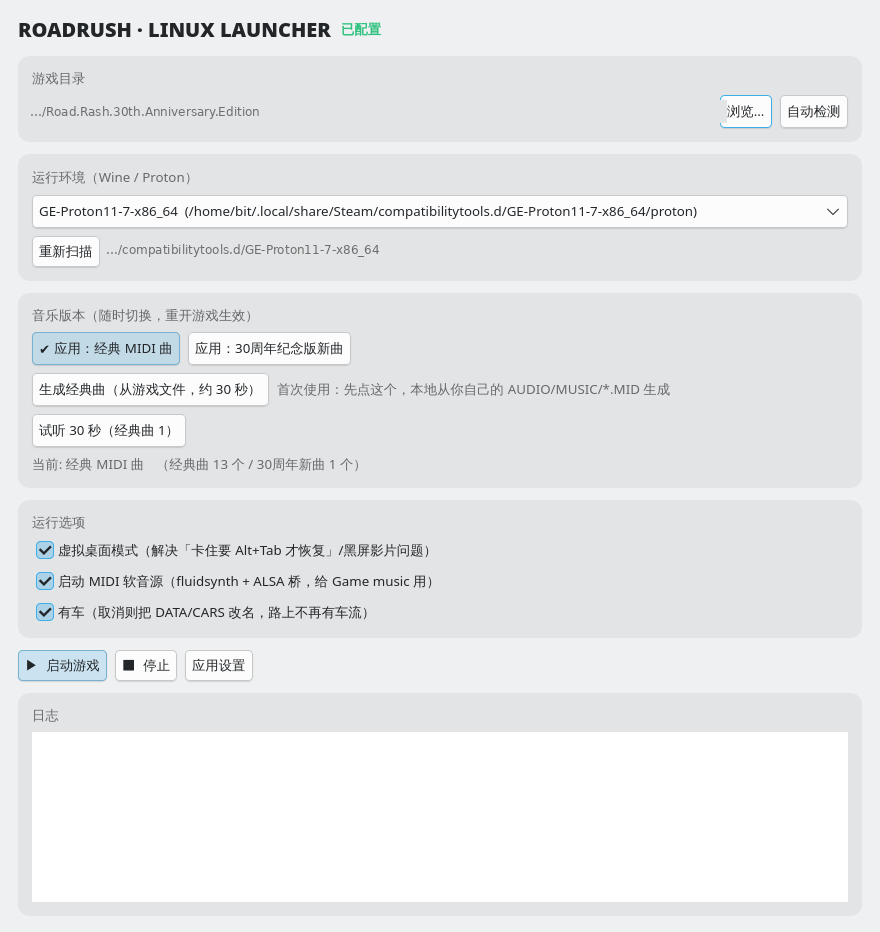
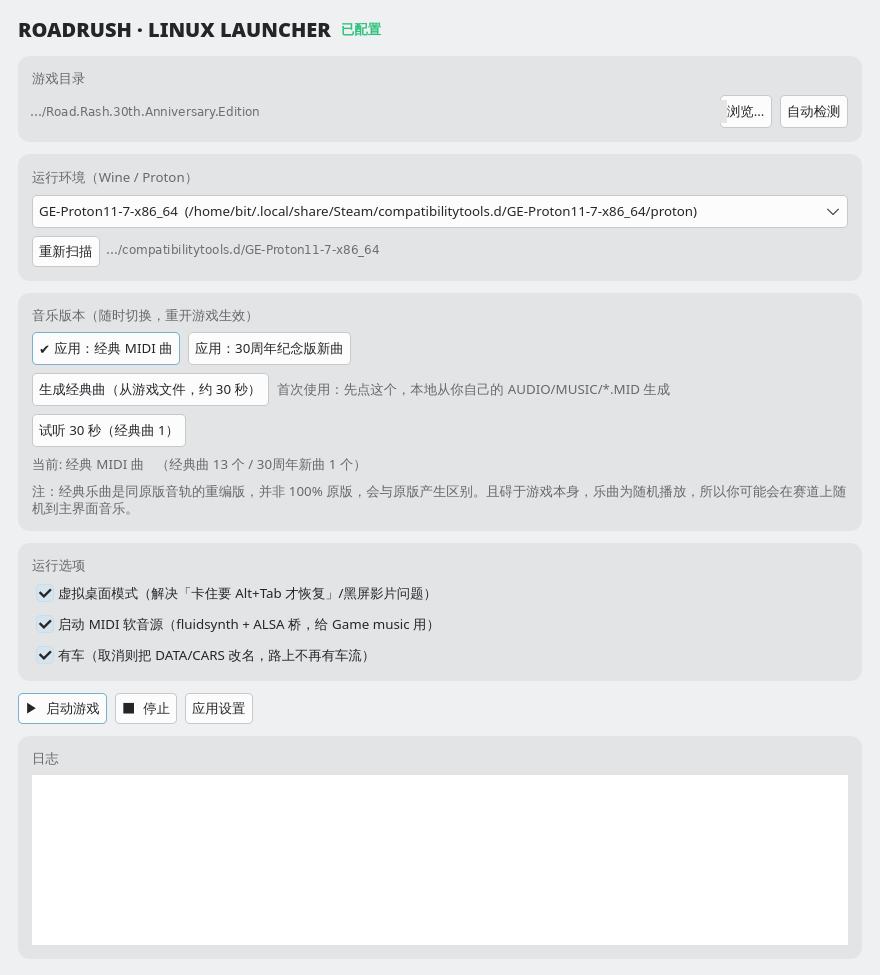
docs(ui): 界面与文档加入经典曲声明（重编版非 100% 原版、游戏内随机播放可能撞上主界面音乐）
- gui: 音乐卡片下方增加一行 dim 声明文字（可选中复制）
- 车辆开关加防御：程序化 set_active 与磁盘状态一致时不再改名
- README / docs/MUSIC.md 同步声明；截图更新

diff --git a/gui.py b/gui.py
@@ -139,6 +139,15 @@ class Launcher(Gtk.Application):
         self.lbl_music.add_css_class("dim")
         self.lbl_music.set_xalign(0)
         box_music.append(self.lbl_music)
+
+        note = Gtk.Label(label=(
+            "注：经典乐曲是同原版音轨的重编版，并非 100% 原版，会与原版产生区别。"
+            "且碍于游戏本身，乐曲为随机播放，所以你可能会在赛道上随机到主界面音乐。"))
+        note.add_css_class("dim")
+        note.set_xalign(0)
+        note.set_wrap(True)
+        note.set_selectable(True)
+        box_music.append(note)
         root.append(box_music)
 
         # 选项
@@ -311,6 +320,11 @@ class Launcher(Gtk.Application):
         if getattr(self, "_loading", False):
             return
         want = btn.get_active()
+        # 防御：程序化 set_active 触发的信号若与磁盘实际状态一致，就不要改目录
+        if self.cfg.game_dir and want == core.get_cars_enabled(Path(self.cfg.game_dir)):
+            self.cfg.cars = want
+            self.cfg.save()
+            return
         self.cfg.cars = want
         if not self.cfg.game_dir:
             self.cfg.save()

diff --git a/README.md b/README.md
@@ -24,6 +24,8 @@
 - **音乐版本一键切换**：`应用：经典 MIDI 曲` ↔ `应用：30周年纪念版新曲`
   - 生效中的那个按钮会**高亮并加 ✔ 前缀**，状态行实时显示槽位统计（如"经典曲 13 个 / 30周年新曲 1 个"）
   - 经典曲源文件缺失时给出明确提示，并高亮「生成经典曲」按钮
+  - 界面上有明确声明：**经典乐曲是同原版音轨的重编版，并非 100% 原版**；且游戏本身是**随机播放**，
+    所以赛道上也可能随机到主界面音乐（见 `DISCLAIMER.md`）
 - **运行选项**：虚拟桌面模式（治 Alt+Tab/遮挡）、MIDI 软音源（fluidsynth + ALSA 桥）、
   **有车 / 无车**（取消勾选就把 `DATA/CARS` 改名成 `DATA/CARS.disabled`，路上不再有车流；随时可恢复）
 - **启动即修**：自动补安装检测注册表、灌 `dxva2=d`、隔离 fcitx、按 runner 决定 Proton/wine

diff --git a/docs/MUSIC.md b/docs/MUSIC.md
@@ -11,6 +11,10 @@
 
 BPM 是逐首试听后定的（原始 MIDS **不存 tempo**，SMF 缺省 120 BPM 会偏慢）。
 
+> **声明**：经典乐曲是同原版音轨的**重编版**，并非 100% 原版（音色用通用 GM 音色库重放、
+> 个别短音/起音做过清理），会与原版产生区别。且碍于游戏本身，乐曲是**随机播放**的，
+> 所以你可能会在赛道上随机到主界面音乐。
+
 ## 一键生成（推荐）
 ```bash
 tools/make-classic-music.sh --game /path/to/game [--out DIR] [--install]
